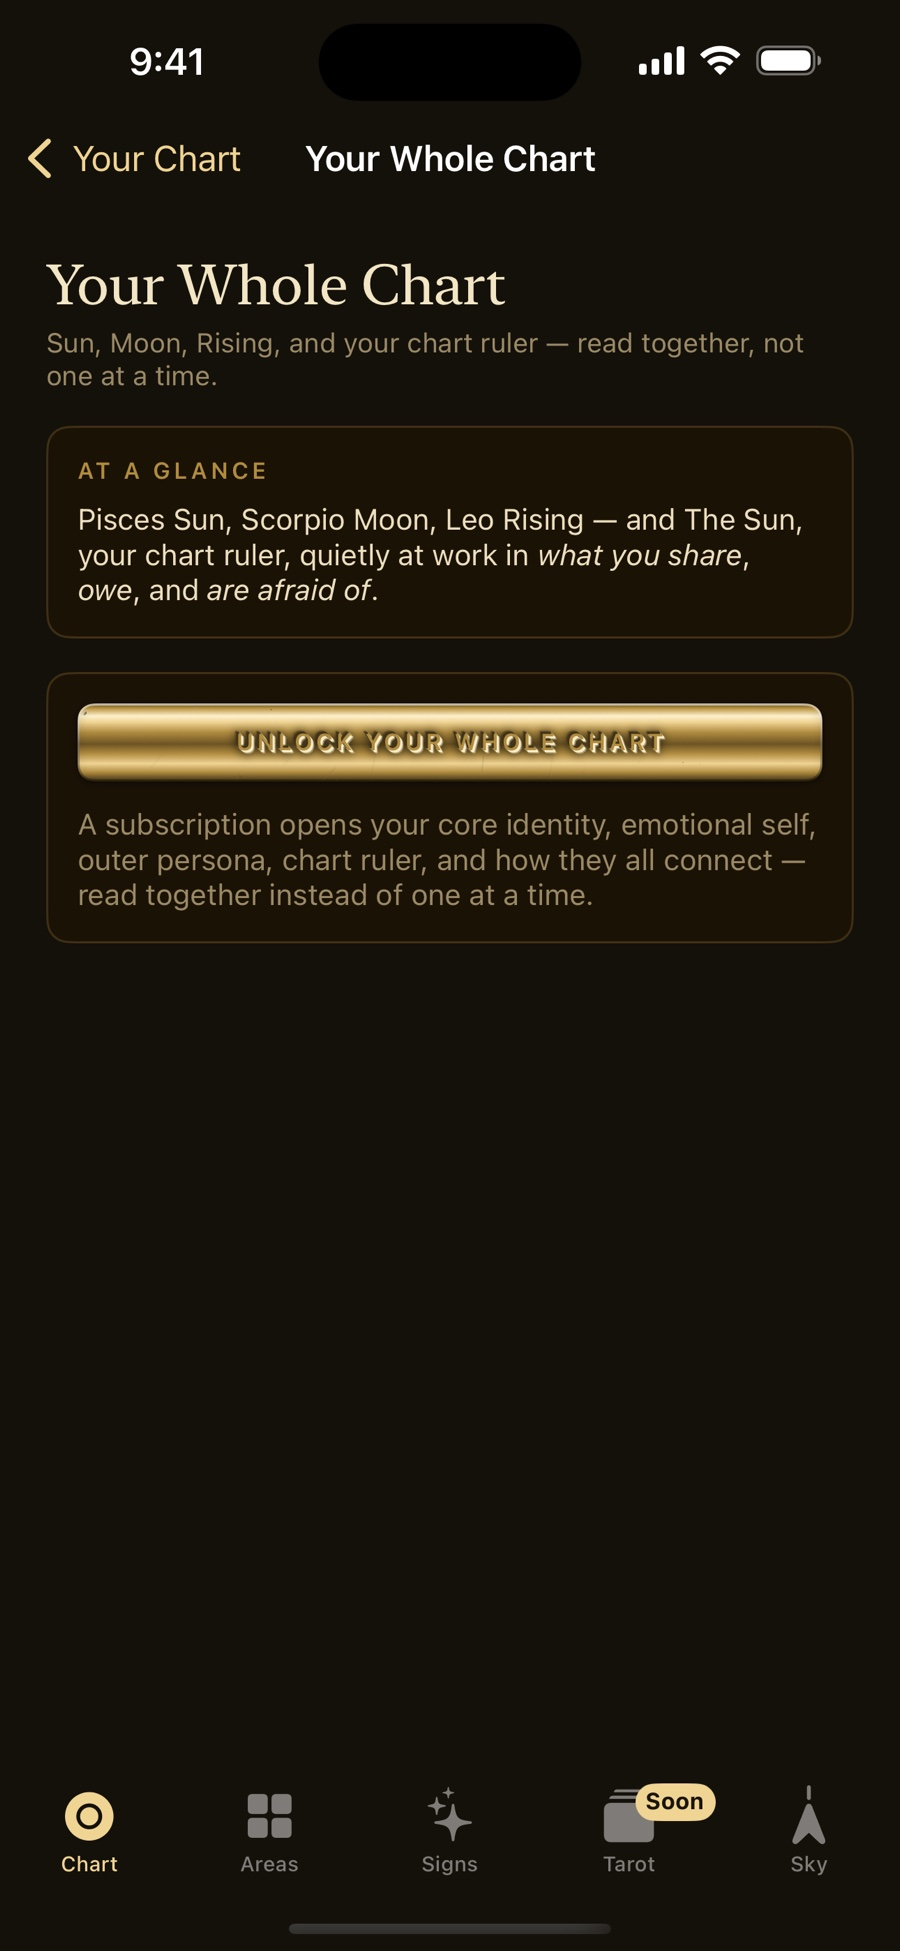
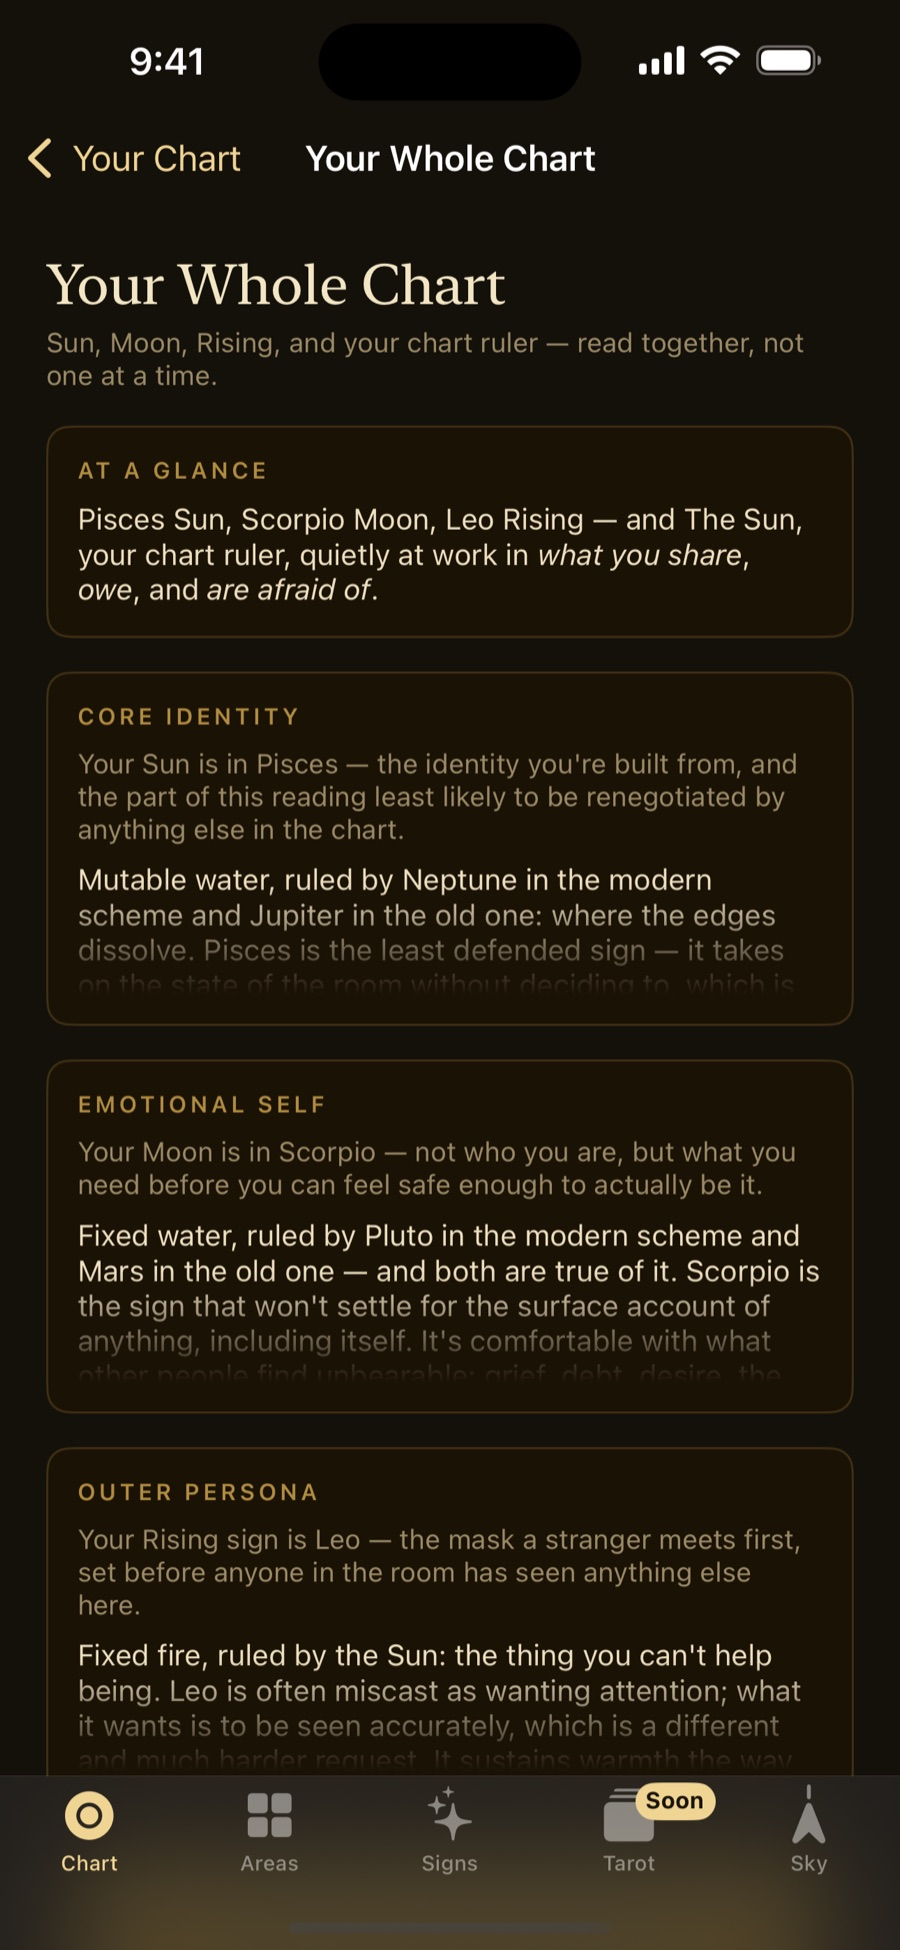
Show the reading in the two screenshots that were only showing its price
Both of these screens were captured signed out, so the site's two most
detailed sections were illustrated by pictures of a paywall. The Whole
Chart shot was an At a Glance line, a gold unlock bar, and 55% empty
frame; the Lilith shot was one sentence restating the house named in its
own header, then the bar, then nothing. The copy beside them promised ten
planets ranked by weight and a chart's overall lean, and the images
proved emptiness.

The app's locked state now opens each gated section a few lines and fades
it out, so these are plain captures of what a non-subscriber actually
sees — no crop, no treatment, nothing the visitor won't get on download.
Cast from the same demo chart as the rest of the set, on a clean install
in the default colour scheme and type set, at the 1290x2796 the other
seven use.

Both alt attributes described the subscription prompt that is no longer
in either picture, so both are rewritten to describe the readings.

Adds a pull quote to the Whole Chart section, taken from How These
Connect — a section far enough down the screen that the screenshot does
not show it, so the quote adds a sentence rather than repeating one. It
also puts a line of the actual writing into text, where a JPEG of it
could never be read or indexed.

diff --git a/index.html b/index.html
@@ -150,6 +150,20 @@
   .feature h2{font-size:clamp(26px,3.2vw,36px);margin:10px 0 20px;color:var(--resist);}
   .feature p{color:var(--ink);opacity:.88;}
   .feature p + p{margin-top:14px;}
+  /* A sentence lifted out of the reading itself and set as type, so the
+     writing is legible at any width and readable as text rather than only
+     as pixels inside a screenshot. */
+  .pullquote{margin:26px 0 0;padding:0 0 0 20px;border-left:2px solid var(--brass);}
+  .pullquote blockquote{
+    margin:0;font-family:'Cinzel',Georgia,serif;font-weight:500;
+    font-size:clamp(17px,1.9vw,20px);line-height:1.5;
+    color:var(--brass-bright);text-wrap:balance;
+  }
+  .pullquote cite{
+    display:block;margin-top:10px;font-style:normal;
+    font-family:'JetBrains Mono',ui-monospace,monospace;
+    font-size:11.5px;letter-spacing:.1em;text-transform:uppercase;color:var(--muted);
+  }
   /* Sections that carry no screenshot: one column, held to a reading measure. */
   .feature.prose-only .wrap{grid-template-columns:1fr;max-width:760px;}
   .shot{
@@ -368,8 +382,12 @@
       <p>Most horoscopes stop at your sun sign. This one reads your Sun, Moon, Rising, and the planet that rules your whole chart together, as a single throughline instead of four separate blurbs.</p>
       <p>It also ranks all ten planets by how much weight they actually carry in your chart — placement and aspects combined — and opens up the one that comes out on top.</p>
       <p>It closes by naming your chart's overall lean, so those four signs resolve into one picture instead of sitting side by side as trivia — not a type you share with everyone born under your sun sign, but the imprint that's yours alone, and the path it points you toward.</p>
+      <div class="pullquote">
+        <blockquote>&ldquo;Sun and Moon both in water means identity and instinct are made of the same substance, with almost no membrane between them.&rdquo;</blockquote>
+        <cite>From the reading &middot; How These Connect</cite>
+      </div>
     </div>
-    <div class="shot"><img src="assets/screenshots/04-whole-chart.jpg" alt="The Whole Chart screen, with a subscription prompt to unlock the full Sun, Moon, Rising, and chart ruler reading" loading="lazy"></div>
+    <div class="shot"><img src="assets/screenshots/04-whole-chart.jpg" alt="The Whole Chart screen: an At a Glance summary naming a Pisces Sun, Scorpio Moon and Leo Rising, then Core Identity, Emotional Self and Outer Persona sections, each opening a few lines of the reading before fading out" loading="lazy"></div>
   </div>
 </section>
 
@@ -381,7 +399,7 @@
       <p>Alongside the ten planets and four angles, this app plots the North Node, Chiron, Black Moon Lilith, and White Moon Selena — points most apps either omit or list without explaining. Each one gets the same full treatment as a planet: what it means, and what to do about it.</p>
       <p>Astrologers pair Black Moon Lilith, the Moon's farthest swing from Earth, with White Moon Selena, its closest — and this is the first version of the app to track both by name.</p>
     </div>
-    <div class="shot"><img src="assets/screenshots/09-lilith-detail.jpg" alt="The Black Moon Lilith detail screen, with a subscription prompt to unlock the full reading" loading="lazy"></div>
+    <div class="shot"><img src="assets/screenshots/09-lilith-detail.jpg" alt="The Black Moon Lilith detail screen, explaining that Lilith is the mean apogee of the Moon's orbit, the text fading out partway down" loading="lazy"></div>
   </div>
 </section>
 
